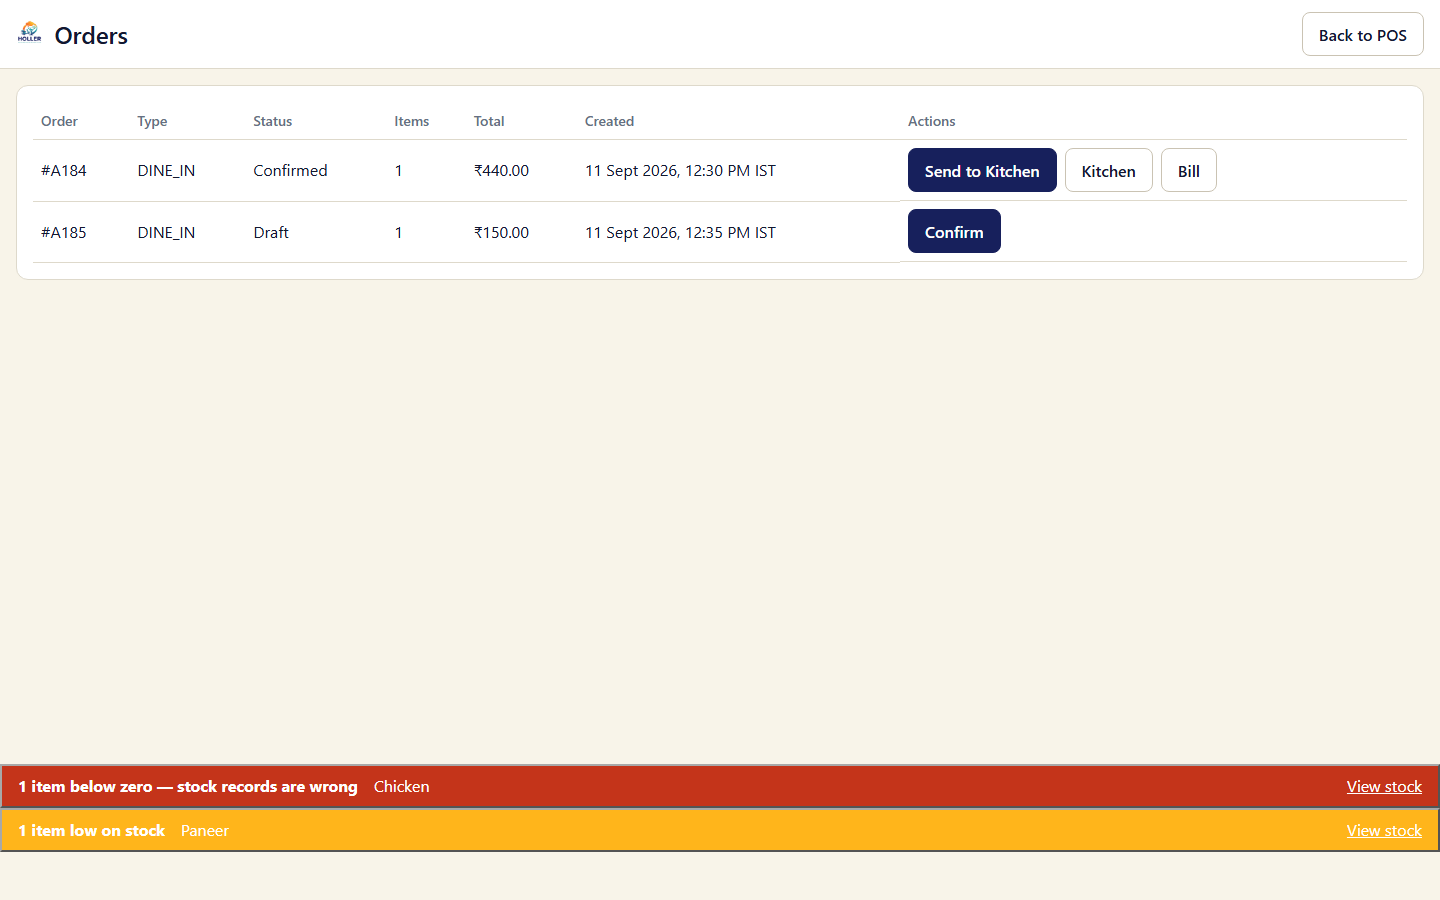
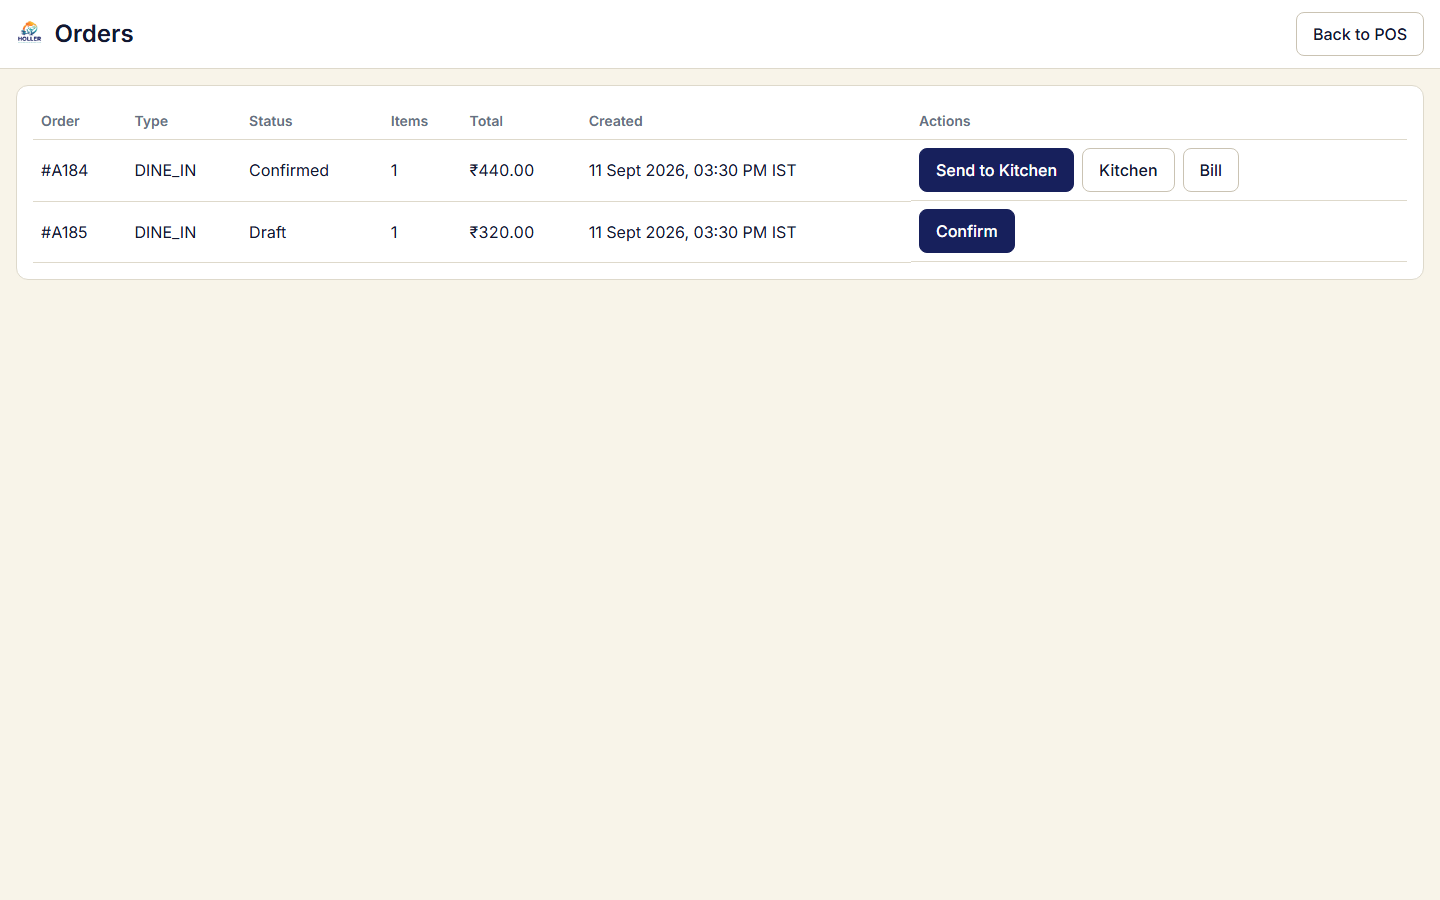
docs(demo-screens): re-take pos-order-list and pos-billing for Inter; index.md update
Re-captured against the real apps/pos dev server (port 5199),
window.__TAURI_INTERNALS__.invoke mocked with contract-shaped fixtures
(login, list_orders, list_stations, find_open_cash_shift,
get_cash_shift, get_order, list_invoices_for_order,
list_payments_for_order), navigated by clicking Orders then Bill,
never a page.goto reload. Two schema mismatches found and fixed while
building the fixtures rather than assumed: CanonicalOrder.status is
SENT_TO_KITCHEN, not SENT, and MenuItem requires config_version.

index.md: new T23 section recording Inter now ships, the nine files
re-taken this pass (five captain, two admin, two pos) plus the twelve
left as-is (Inter was already first in --font-sans, so a build/browser
check for the face covers them, not a per-screen retake), and the full
21-file MD5 set confirmed pairwise distinct.

Claude-Session: https://claude.ai/code/session_01MaG9XPvUs2rtAbtEF8yzNp

diff --git a/docs/demo-screens/index.md b/docs/demo-screens/index.md
@@ -1,5 +1,83 @@
 # Demo screens — presentability check (T14 follow-up, T19 controls/header pass)
 
+## T23 update (2026-09-11) — Inter now ships; every screen in this set re-taken or confirmed against it
+
+`packages/ui` now bundles Inter as self-hosted variable woff2 (`fonts.css` +
+`fonts/`), imported by `tokens.css`. Every screenshot in this directory was
+taken (or re-taken) against the real face, not Segoe UI — nine files below
+are **new captures in this pass** (five `captain-*`, two `admin-*`, two
+`pos-*`); the rest were captured in earlier passes but are unaffected because
+`--font-sans` already put Inter first in the stack, so the only change
+visible on them is that the fallback no longer fires. See T23's own report
+for the byte cost, the variable-vs-static comparison, the ₹-glyph
+(`fontTools` cmap) confirmation, and separate dev/build/captain-listener
+verification.
+
+**Re-taken in this pass**, driven by real `pnpm dev` servers with either
+`window.__TAURI_INTERNALS__.invoke` (POS) or `page.route` (`apps/captain`,
+`apps/admin`) mocked with contract-shaped fixtures, never a `page.goto`
+reload after login/pairing, each screen's own unique content asserted before
+capture (throwaway scripts, session scratch directory, not part of this
+repository):
+
+| File | Screen | Notes |
+|---|---|---|
+| `captain-pair.png` | Pair | Token pasted, not yet submitted |
+| `captain-tables.png` | Tables | Free vs. occupied, colour + text tag |
+| `captain-menu-cart.png` | Menu + cart | 1 item / ₹220.00 in the cart bar |
+| `captain-modifier-sheet.png` | Free-modifier sheet | "Chicken Biryani"'s required "Spice Level" group |
+| `captain-sent.png` | Sent confirmation | Order A211, two KOTs (GRILL, MAIN), both QUEUED |
+| `admin-sign-in.png` | Admin — Sign in | Email/password filled, not yet submitted |
+| `admin-menu.png` | Admin — Menu and pricing | Chicken Biryani/Paneer Tikka/Masala Chai, ₹450.00 shown |
+| `pos-order-list.png` | POS — Order List | One CONFIRMED (A184) + one DRAFT (A185) order |
+| `pos-billing.png` | POS — Billing | Order A184 billed, invoice FY26/PNQ/001423, ₹440.00, one CASH payment captured |
+
+Two schema corrections made while building the fixtures, recorded because
+each would otherwise silently produce a wrong or stuck screen:
+`CanonicalOrder.status` is `SENT_TO_KITCHEN`, not `SENT` (an invalid-enum
+zod error, not a network failure, stalled the captain send flow); and
+`MenuItem` requires `config_version` (missing on the first attempt — the
+admin menu screen's `isError` branch caught it, not a silent drop).
+
+### Full current set, MD5, 21 files pairwise distinct (`md5sum docs/demo-screens/*.png`)
+
+```
+65ef593004e37f919c9a7b62171d6764  admin-goods-receipts.png
+b6a7d9b680706825351bb51b7ca2f355  admin-menu.png
+39cfe9fc071ab29c5d70cb995833e57e  admin-sign-in.png
+d21c25d317e82c94d8ebbb368a5e0669  admin-suppliers.png
+a1811fe7a34d09cb0814b715c3e40077  captain-menu-cart.png
+e3d1668d3ffd6757c708ba3fab7c2f2e  captain-modifier-sheet.png
+bc586445684cf7d100ef01868fc918fa  captain-pair.png
+e74d9b334b08f2f8b37b54ea57147cfa  captain-sent.png
+1538445032fc1ee572363e76f07d0792  captain-tables.png
+898c22bafbb4ebf8493362c8d8c2f332  kds-ticket.png
+f4cf0bdc20616b063f8270ff81fd5b97  pos-aggregator-orders.png
+eb4db7380d18c65121dbc080e4da92b5  pos-billing.png
+7acadd1008c32911ba0bb771846b827e  pos-billing-upi-qr.png
+6e3528a35bd33115d797d72d165d94de  pos-crash-screen.png
+887b0c7e3e1224f744da1bf38f3d4f03  pos-current-stock.png
+a0b782731c989abddf2905651cd371c2  pos-grn-gaps.png
+1fb0db03af5166cfb7a41b8d3364c0c6  pos-order-list.png
+1c85a41d8a44bc23c94f071c7561425f  pos-order-list-empty.png
+d2c0985bacbad90897a2d8803a9ce3db  pos-order-list-kots.png
+db1c969ea99617e31c16bd260d68b162  pos-purchase-return.png
+1cbd58a26aca8c5292ad7308cb417461  pos-receiving.png
+```
+
+21 files, 21 distinct hashes (checked with `sort | uniq -d`, empty output).
+Every file listed under "Re-taken in this pass" has a hash superseding its
+prior entry further down this document; the earlier entries are left as
+history, not deleted.
+
+**Not re-taken in this pass** (unaffected because Inter was already first in
+`--font-sans`; a build/browser check for the face itself, not per-screen,
+covers them — see T23's report): `admin-goods-receipts.png`,
+`admin-suppliers.png`, `kds-ticket.png`, `pos-aggregator-orders.png`,
+`pos-billing-upi-qr.png`, `pos-crash-screen.png`, `pos-current-stock.png`,
+`pos-grn-gaps.png`, `pos-order-list-empty.png`, `pos-order-list-kots.png`,
+`pos-purchase-return.png`, `pos-receiving.png`.
+
 ## T22 update (2026-09-11) — `admin-menu.png` re-captured, `pos-aggregator-orders.png` captured (first ever)
 
 Closes the presentability set. **No application code changed in this pass** —
